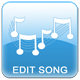
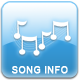
FIX -reinserito le librerie inutilizzate perche' tanto inutilizzate nn sono. FIX - new Info button

diff --git a/src/it/unipd/netmus/client/ui/ProfileViewImpl.java b/src/it/unipd/netmus/client/ui/ProfileViewImpl.java
@@ -5,12 +5,18 @@ package it.unipd.netmus.client.ui;
 
 import java.util.ArrayList;
 import java.util.Arrays;
+import java.util.Collections;
 import java.util.Comparator;
 import java.util.List;
+import java.util.Stack;
+
+import it.unipd.netmus.client.place.LoginPlace;
 
 import com.google.gwt.core.client.GWT;
 import com.google.gwt.event.dom.client.BlurEvent;
 import com.google.gwt.event.dom.client.BlurHandler;
+import com.google.gwt.event.dom.client.ChangeEvent;
+import com.google.gwt.event.dom.client.ChangeHandler;
 import com.google.gwt.event.dom.client.ClickEvent;
 import com.google.gwt.event.dom.client.ClickHandler;
 import com.google.gwt.event.dom.client.DoubleClickEvent;
@@ -20,48 +26,64 @@ import com.google.gwt.event.dom.client.KeyDownEvent;
 import com.google.gwt.event.dom.client.KeyDownHandler;
 import com.google.gwt.event.dom.client.KeyUpEvent;
 import com.google.gwt.event.dom.client.KeyUpHandler;
+import com.google.gwt.event.dom.client.MouseDownEvent;
 import com.google.gwt.event.dom.client.MouseOutEvent;
 import com.google.gwt.event.dom.client.MouseOutHandler;
 import com.google.gwt.event.dom.client.MouseOverEvent;
 import com.google.gwt.event.dom.client.MouseOverHandler;
+import com.google.gwt.event.dom.client.MouseUpEvent;
+import com.google.gwt.event.dom.client.MouseUpHandler;
+import com.google.gwt.dom.client.DivElement;
+import com.google.gwt.dom.client.SpanElement;
 import com.google.gwt.dom.client.Style;
 import com.google.gwt.event.logical.shared.ResizeEvent;
 import com.google.gwt.event.logical.shared.ResizeHandler;
+import com.google.gwt.event.shared.GwtEvent;
 import com.google.gwt.event.shared.HandlerRegistration;
 import com.google.gwt.uibinder.client.UiBinder;
 import com.google.gwt.uibinder.client.UiField;
 import com.google.gwt.user.cellview.client.CellTable;
+import com.google.gwt.user.cellview.client.CellTable.Resources;
 import com.google.gwt.user.cellview.client.ColumnSortEvent.ListHandler;
 import com.google.gwt.user.cellview.client.TextColumn;
 import com.google.gwt.user.client.DOM;
+import com.google.gwt.user.client.Event;
 import com.google.gwt.user.client.Timer;
 import com.google.gwt.user.client.Window;
 import com.google.gwt.user.client.ui.Button;
 import com.google.gwt.user.client.ui.Composite;
+import com.google.gwt.user.client.ui.FocusListener;
 import com.google.gwt.user.client.ui.FocusPanel;
 import com.google.gwt.user.client.ui.HTMLPanel;
 import com.google.gwt.user.client.ui.HasVerticalAlignment;
 import com.google.gwt.user.client.ui.HorizontalPanel;
 import com.google.gwt.user.client.ui.Image;
+import com.google.gwt.user.client.ui.InsertPanel.ForIsWidget;
+import com.google.gwt.user.client.ui.KeyboardListener;
 import com.google.gwt.user.client.ui.PasswordTextBox;
+import com.google.gwt.user.client.ui.SimplePanel;
 import com.google.gwt.user.client.ui.TextArea;
 import com.google.gwt.user.client.ui.TextBox;
+import com.google.gwt.user.client.ui.UIObject;
 import com.google.gwt.user.client.ui.VerticalPanel;
 import com.google.gwt.user.client.ui.Widget;
+import com.google.gwt.view.client.HasData;
 import com.google.gwt.view.client.ListDataProvider;
 import com.google.gwt.view.client.SelectionChangeEvent;
 import com.google.gwt.view.client.SingleSelectionModel;
+import com.google.gwt.event.dom.client.ClickEvent;
+import com.google.gwt.uibinder.client.UiBinder;
+import com.google.gwt.uibinder.client.UiField;
 import com.google.gwt.uibinder.client.UiHandler;
 import com.google.gwt.user.client.ui.Anchor;
 import com.google.gwt.user.client.ui.Label;
+import com.google.gwt.user.client.ui.Widget;
 
 
 /**
- * Nome: ProfileViewImpl.java
- * Autore:  VT.G
- * Licenza: GNU GPL v3
- * Data Creazione: 16 Febbraio 2011
-*/
+ * @author smile
+ *
+ */
 public class ProfileViewImpl extends Composite implements ProfileView {
 
    private static ProfileViewImplUiBinder uiBinder = GWT.create(ProfileViewImplUiBinder.class);
@@ -262,7 +284,6 @@ public class ProfileViewImpl extends Composite implements ProfileView {
    public ProfileViewImpl() {
 
        youTubeListener();
-       youtube_status = 0;
 	   //costruisco la componente widget x il catalogo delle canzoni
 	   catalogo = new CellTable<Song>(Integer.MAX_VALUE, resource);
 	   catalogo.setWidth("100%", true);
